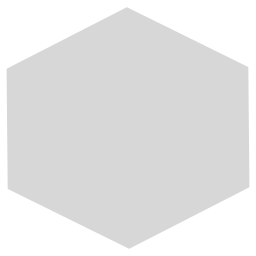
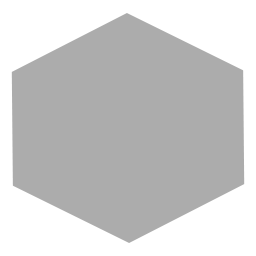
display hexs

diff --git a/Classes/GameLayer.cpp b/Classes/GameLayer.cpp
@@ -36,9 +36,16 @@ bool GameLayer::init()
     CCSize visibleSize = CCDirector::sharedDirector()->getVisibleSize();
     CCPoint origin = CCDirector::sharedDirector()->getVisibleOrigin();
 
-	
 	setTouchEnabled(true);
-    //scheduleUpdate();
+
+	getHex()->setPosition(ccp(visibleSize.width/2, visibleSize.height/2));
+	getHex()->setPosition(ccp(visibleSize.width/2 + 64, visibleSize.height/2));
+	getHex()->setPosition(ccp(visibleSize.width/2 - 64, visibleSize.height/2));
+
+	getHex()->setPosition(ccp(visibleSize.width/2 - 32, visibleSize.height/2 + 48));
+	getHex()->setPosition(ccp(visibleSize.width/2 + 32, visibleSize.height/2 + 48));
+	getHex()->setPosition(ccp(visibleSize.width/2 - 32, visibleSize.height/2 - 48));
+	getHex()->setPosition(ccp(visibleSize.width/2 + 32, visibleSize.height/2 - 48));
 
 	return true;
 }
@@ -47,3 +54,12 @@ bool GameLayer::init()
 void GameLayer::update(float delta )
 {
 }*/
+
+CCSprite* GameLayer::getHex()
+{
+	CCSprite* hex = CCSprite::create("image/hex.png");
+	hex->setColor(ccc3(25, 25, 127));
+	hex->setScale(0.25f);
+	this->addChild(hex);
+	return hex;
+}

diff --git a/Classes/AppDelegate.cpp b/Classes/AppDelegate.cpp
@@ -26,7 +26,7 @@ bool AppDelegate::applicationDidFinishLaunching() {
     pDirector->setOpenGLView(pEGLView);
 
     // Set the design resolution
-    pEGLView->setDesignResolutionSize(640, 960, kResolutionNoBorder);
+    pEGLView->setDesignResolutionSize(1024, 768, kResolutionNoBorder);
 
     CCSize frameSize = pEGLView->getFrameSize();
     
@@ -45,11 +45,6 @@ bool AppDelegate::applicationDidFinishLaunching() {
 
     // run
     pDirector->runWithScene(pScene);
-
-	/*preloadSounds();
-	CocosDenshion::SimpleAudioEngine::sharedEngine()->playBackgroundMusic("background.mp3", true);
-	CocosDenshion::SimpleAudioEngine::sharedEngine()->setBackgroundMusicVolume(0.3f);
-	CocosDenshion::SimpleAudioEngine::sharedEngine()->setEffectsVolume(0.2f);*/
     return true;
 }
 

diff --git a/Classes/GameLayer.h b/Classes/GameLayer.h
@@ -16,4 +16,6 @@ public:
 private:
 	// implement the "static node()" method manually
     CREATE_FUNC(GameLayer);
+
+	CCSprite* getHex();
 };
